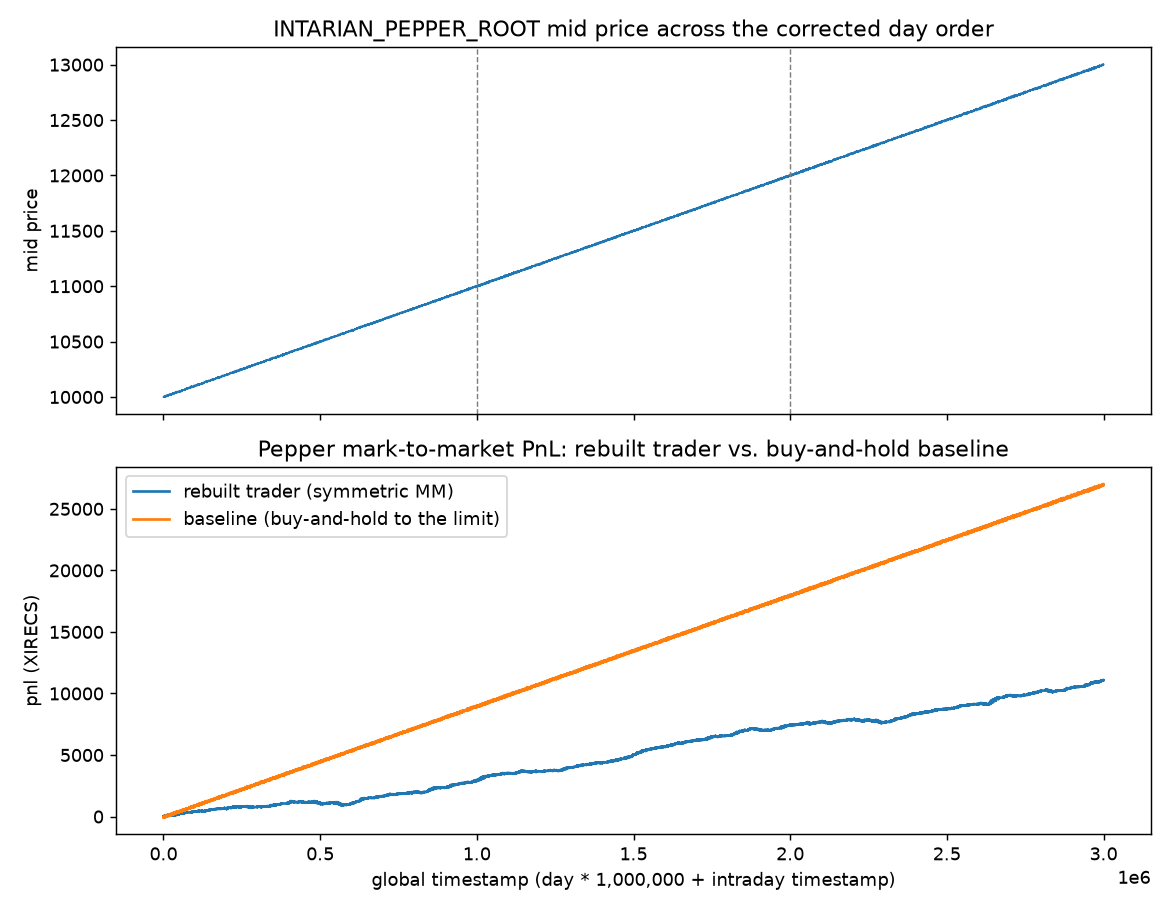
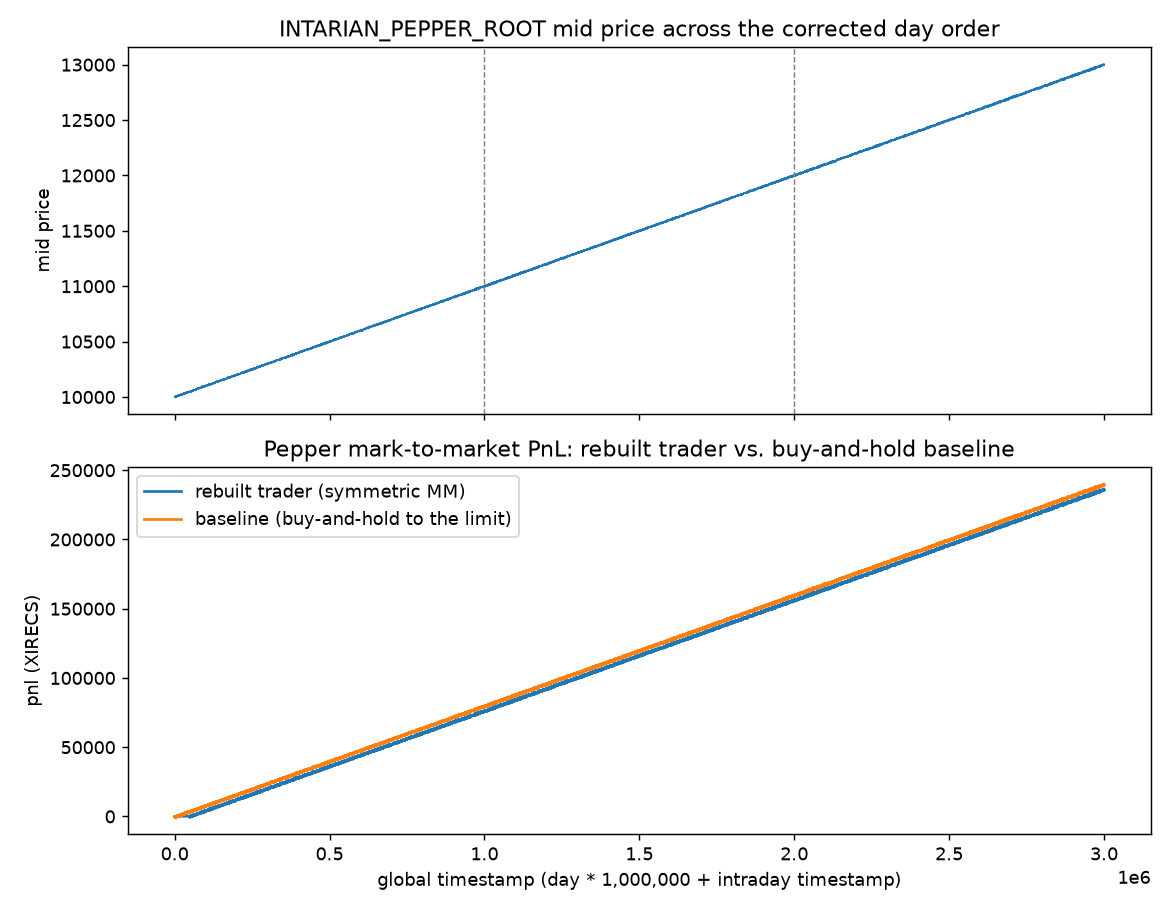
Update README, VALIDATION and figure with corrected numbers, protocol result and checks

diff --git a/README.md b/README.md
@@ -13,13 +13,15 @@ truncation-vs-rounding error in the fair-value clamp), fixed a reversed `day`
 label in the cleaned data that made Pepper's trend look like three
 disconnected sawtooths instead of one continuous line, and built a local
 backtester so the strategy's actual numbers are honest rather than assumed.
-**The headline finding is not flattering: on INTARIAN_PEPPER_ROOT, a trivial
-buy-and-hold-to-the-limit baseline earns 26,955 XIRECS over the round versus
-11,076 for the rebuilt symmetric market maker -- the product trends hard
-enough, and consistently enough, that a bounded, mean-reversion-flavored
-market maker leaves most of the money on the table.** The market maker does
-win on ASH_COATED_OSMIUM, which actually mean-reverts (25,262 vs. 20,986 for
-a fixed-fair-value baseline).
+****The headline finding is not flattering, and it got less flattering once the
+comparison was made honest: on INTARIAN_PEPPER_ROOT a correct hold-to-the-limit
+baseline earns 239,471 XIRECS over the round versus 10,398 for the symmetric
+market maker (the earlier 26,955 baseline only ever held 9 units -- a bug).** A
+trend mode that I selected on day 0 only (below) reaches 235,913: it ties the
+baseline on day 1 and loses to it on day 2, so **nothing here beats hold-to-limit
+on Pepper out of sample.** The market maker still beats a fixed-fair-value
+baseline on ASH_COATED_OSMIUM over the round (24,176 vs. 20,986), but loses to it
+on day 1 and does not survive a stricter fill model (see Checks).
 
 ![Pepper mid price across the corrected day order, and PnL: rebuilt trader vs. buy-and-hold](docs/img/pepper_price_and_pnl.png)
 *Top: Pepper's mid price across all three days once the day labels are fixed -- one continuous
@@ -34,29 +36,66 @@ to the limit and holding beats the rebuilt market maker's PnL curve for the whol
 | **Methods** | Avellaneda-Stoikov-style inventory skew, empirical fill-rate-weighted half spread, vol-shock spread widening, short-window drift fair-value shift |
 | **Inputs** | `cleaned/*.csv` -- 3 days x 10,000 ticks x 2 products of IMC Prosperity order book snapshots and trades |
 | **Outputs** | `trader.py` (submission-ready), per-tick/per-day mark-to-market PnL |
-| **Validation** | 29 pytest tests: pricing formulas, skew sign/clamp, state round-trip, position-limit compliance, backtester fill/limit invariants, day-ordering correctness |
+| **Validation** | 35 pytest tests: pricing formulas, skew sign/clamp, state round-trip, position-limit compliance, backtester fill/limit invariants, day-ordering correctness |
 | **Headline result** | Rebuilt MM beats a trivial baseline on mean-reverting Ash; a trivial buy-and-hold baseline beats the rebuilt MM on trending Pepper |
 | **Stack** | Python 3.13, stdlib only for `trader.py`; pandas/numpy/matplotlib for backtest/analysis |
 
 ## Results
 
-From `python run.py compare` (full 3-day replay, both products):
+Two backtester fixes changed the numbers: the trader now sees the *previous*
+tick's trades while resting quotes fill against the *current* tick's (it used
+to see and fill against the same prints), and the buy-and-hold baseline now
+buys every tick until position 80 (it used to buy once and end at 9 units).
+Each has a test that fails without it. Per-day PnL (XIRECS), corrected:
 
-| product | strategy | final position | total pnl (XIRECS) |
-|---|---|---:|---:|
-| ASH_COATED_OSMIUM | rebuilt trader | 3 | 25,262.00 |
-| ASH_COATED_OSMIUM | trivial fixed-value MM baseline | -80 | 20,986.00 |
-| INTARIAN_PEPPER_ROOT | rebuilt trader | -4 | 11,076.00 |
-| INTARIAN_PEPPER_ROOT | trivial buy-and-hold baseline | 9 | 26,955.00 |
+| product | strategy | day 0 | day 1 | day 2 | total |
+|---|---|---:|---:|---:|---:|
+| ASH_COATED_OSMIUM | original market maker | 8,018 | 8,356 | 7,802 | 24,176 |
+| ASH_COATED_OSMIUM | fixed-value MM baseline (10000 +/- 2) | 6,523 | 8,381 | 6,082 | 20,986 |
+| INTARIAN_PEPPER_ROOT | original market maker (trend mode off) | 3,020.5 | 4,105.5 | 3,272 | 10,398 |
+| INTARIAN_PEPPER_ROOT | hold-to-limit baseline | 79,591 | 79,720 | 80,160 | 239,471 |
+| INTARIAN_PEPPER_ROOT | trend mode, day-0 pick (500, 0.5, 0) | 76,099 | 79,720 | 80,094 | 235,913 |
 
-Per-day PnL for the rebuilt trader (`python run.py backtest`):
+(Before the fixes: original MM 25,262 / 11,076; buy-and-hold 26,955.) Ash is
+identical with trend mode on, since it never engages there.
 
-| product | day 0 | day 1 | day 2 |
-|---|---:|---:|---:|
-| ASH_COATED_OSMIUM | 8,331.00 | 8,883.00 | 8,048.00 |
-| INTARIAN_PEPPER_ROOT | 2,947.50 | 4,500.50 | 3,628.00 |
+### Walk-forward protocol and out-of-sample result
 
-Full numbers, regenerated by `validate.py`, live in `docs/VALIDATION.md`.
+The protocol is in [`docs/PROTOCOL.md`](docs/PROTOCOL.md) and was committed
+before any new strategy ran: tune on **day 0 only**, then score days 1 and 2
+once. `python walkforward.py tune` tried **19 variants** (original MM plus
+lookback {500, 1000, 2000} x drift t-stat threshold {0.5, 1.0, 1.5} x MM-overlay
+band {0, 10}); the day-0 winner was lookback 500, threshold 0.5, overlay 0 (a
++/-80 core with no market making). Day-0 PnL of every variant is in
+`python walkforward.py tune`'s output; the overlay variants were uniformly
+worse than no overlay.
+
+| out of sample | day 1 | day 2 |
+|---|---:|---:|
+| Pepper: trend mode (day-0 pick) | 79,720 | 80,094 |
+| Pepper: hold-to-limit | 79,720 | 80,160 |
+| Ash: market maker | 8,356 | 7,802 |
+| Ash: fixed-value baseline | 8,381 | 6,082 |
+
+**Verdict.** On Pepper the trend mode ties on day 1 and is 66 behind on day 2:
+it does not beat hold-to-limit, and cannot -- the position is capped at 80, so
+the drift is already fully captured by the baseline; the 3,562 shortfall on day 0
+is just the lookback warm-up before the trend is detected. On Ash the market
+maker wins day 2 by 1,720 but loses day 1 by 25. No edge over the honest
+baselines yet.
+
+### Checks (`python checks.py`)
+
+| check | result |
+|---|---|
+| null: linearly detrended Pepper -> trend mode should not engage | **FAILS.** With threshold 0.5 the trader sits at \|position\| >= 70 on 99% of ticks and ends at -80 (pnl 738). A 0.5 t-stat is not a significance level; the day-0 pick was never null-calibrated. |
+| placebo: Pepper mirrored (prices negated) | Passes: goes to -80, earns 235,913 (symmetric), min position -80, no blow-up; hold-to-limit loses 240,511 on the same data. |
+| fill stress: passive fills at 50% of printed quantity, strictly-through prints only | Pepper unchanged (the baseline and trend mode cross the book): 75,952 / 79,720 / 80,160 vs. 79,591 / 79,720 / 80,160. **Ash MM falls to 2,221 / 2,330 / 2,244 per day, below the fixed-value baseline's 4,416 / 6,242 / 4,499** -- its edge depends on generous passive fills. |
+
+Next hypothesis: pick the threshold from a signal-free calibration (e.g. the
+detrended series' own t-stat distribution, |t| > ~2) rather than from day-0 PnL,
+and re-test with a fresh protocol; with 3 days of one trending path this may
+not be testable at all. Caveats: one path, three days, one tuning day.
 
 ## How it works
 
@@ -93,7 +132,7 @@ horizon))`, clamped to +/-4 ticks.
   own price) since IMC's actual matching engine is not public. See
   `backtest.py`'s module docstring for the exact rules.
 - Baselines are deliberately parameter-free: a fixed-value MM for mean-
-  reverting Ash, buy-and-hold for trending Pepper. The point is to show
+  reverting Ash, hold-to-the-limit for trending Pepper. The point is to show
   whether the rebuilt strategy's complexity earns its keep against the
   simplest sane alternative for each market's character, not to find the
   single best possible trivial strategy.
@@ -105,11 +144,14 @@ python -m venv .venv
 .venv/Scripts/activate    # .venv/bin/activate on Linux/macOS
 pip install -r requirements-dev.txt
 
-python prepare_data.py            # regenerate cleaned/ from cleaned/raw/ (already committed, but reproducible)
+python prepare_data.py            # generate cleaned/ from cleaned/raw/ (required first; cleaned/*.csv is gitignored)
 python run.py stats               # per-day price stats, shows the Pepper trend
 python run.py backtest            # rebuilt trader, both products, all days
 python run.py compare             # rebuilt trader vs. trivial baseline, both products
-pytest tests -q                   # 29 tests
+pytest tests -q                   # 35 tests
+python walkforward.py tune        # all variants on day 0 (prints the variant count)
+python walkforward.py test 500 0.5 0   # the day-0 pick on days 0-2
+python checks.py                  # null, placebo, fill-stress checks
 python validate.py                # regenerate docs/VALIDATION.md and docs/img/*.png
 ```
 
@@ -125,7 +167,9 @@ python validate.py                # regenerate docs/VALIDATION.md and docs/img/*
 | `run.py` | CLI: `backtest`, `stats`, `compare` |
 | `validate.py` | Regenerates `docs/VALIDATION.md` and `docs/img/*.png` |
 | `cleaned/raw/` | Frozen pre-fix `allPrices.csv`/`allTrades.csv` |
-| `cleaned/` | Corrected prices/trades/analysis CSVs (generated, but committed) |
+| `cleaned/` | Corrected prices/trades/analysis CSVs (generated by `prepare_data.py`, gitignored) |
+| `walkforward.py`, `checks.py` | Day-0 tuning / out-of-sample scoring; null, placebo and fill-stress checks |
+| `docs/PROTOCOL.md` | The evaluation protocol, declared before testing new strategies |
 | `legacy/` | The four superseded bots plus the original TraderC1.py, annotated |
 | `Background_and_Research/` | Pre-rebuild exploratory plots (`AshGraph.png`, `PepperGraph.png`) |
 | `docs/BACKGROUND.md` | Full writeup of the day-ordering bug and why it matters |
@@ -134,9 +178,8 @@ python validate.py                # regenerate docs/VALIDATION.md and docs/img/*
 
 ## Future interests
 
-- A regime-aware strategy that detects trend vs. mean-reversion per product
-  (or per window) instead of hardcoding the assumption per symbol, so Pepper
-  wouldn't need a separate trivial baseline to catch up.
+- Null-calibrate the regime detector's threshold (a first, day-0-tuned attempt
+  is in `trader.py` and fails the null check; see Results).
 - Round 2+ products and the actual IMC conversions/observations mechanics,
   which this round didn't exercise (`datamodel.py` includes
   `ConversionObservation` for forward compatibility but nothing here uses it).
@@ -151,9 +194,7 @@ python validate.py                # regenerate docs/VALIDATION.md and docs/img/*
   INTARIAN_PEPPER_ROOT; `datamodel.py` mirrors IMC's own (unpublished as a
   package) interface closely enough that `trader.py` is submission-compatible,
   but is not IMC's code.
-- `cleaned/*.csv` is committed (not gitignored) despite being derived, since
-  `prepare_data.py`'s input (`cleaned/raw/`) is the only copy of the original
-  IMC export available in this repo's history.
+- `cleaned/*.csv` is derived and gitignored; only `cleaned/raw/` (the sole copy of the original export) is committed.
 - Backtest timings are single-core on a Windows machine; a full `run.py
   backtest` (both products, 60,000 ticks total) runs in a few seconds, and
   `run.py compare` (double that, with a second trader) in well under a

diff --git a/docs/VALIDATION.md b/docs/VALIDATION.md
@@ -5,26 +5,26 @@ Generated by `validate.py`. Do not edit by hand.
 ## Tests
 
 ```
-29 passed in 0.45s
+35 passed in 2.67s
 ```
 
 ## Backtest: rebuilt trader vs. trivial baseline, all three days
 
 | product | strategy | final position | total pnl |
 |---|---|---:|---:|
-| ASH_COATED_OSMIUM | rebuilt trader | 3 | 25262.00 |
+| ASH_COATED_OSMIUM | rebuilt trader | 2 | 24176.00 |
 | ASH_COATED_OSMIUM | trivial baseline | -80 | 20986.00 |
-| INTARIAN_PEPPER_ROOT | rebuilt trader | -4 | 11076.00 |
-| INTARIAN_PEPPER_ROOT | trivial baseline | 9 | 26955.00 |
+| INTARIAN_PEPPER_ROOT | rebuilt trader | 80 | 235913.00 |
+| INTARIAN_PEPPER_ROOT | trivial baseline | 80 | 239471.00 |
 
 ## Per-day pnl, rebuilt trader
 
 | product | day | pnl |
 |---|---:|---:|
-| ASH_COATED_OSMIUM | 0 | 8331.00 |
-| ASH_COATED_OSMIUM | 1 | 8883.00 |
-| ASH_COATED_OSMIUM | 2 | 8048.00 |
-| INTARIAN_PEPPER_ROOT | 0 | 2947.50 |
-| INTARIAN_PEPPER_ROOT | 1 | 4500.50 |
-| INTARIAN_PEPPER_ROOT | 2 | 3628.00 |
+| ASH_COATED_OSMIUM | 0 | 8018.00 |
+| ASH_COATED_OSMIUM | 1 | 8356.00 |
+| ASH_COATED_OSMIUM | 2 | 7802.00 |
+| INTARIAN_PEPPER_ROOT | 0 | 76099.00 |
+| INTARIAN_PEPPER_ROOT | 1 | 79720.00 |
+| INTARIAN_PEPPER_ROOT | 2 | 80094.00 |
 
